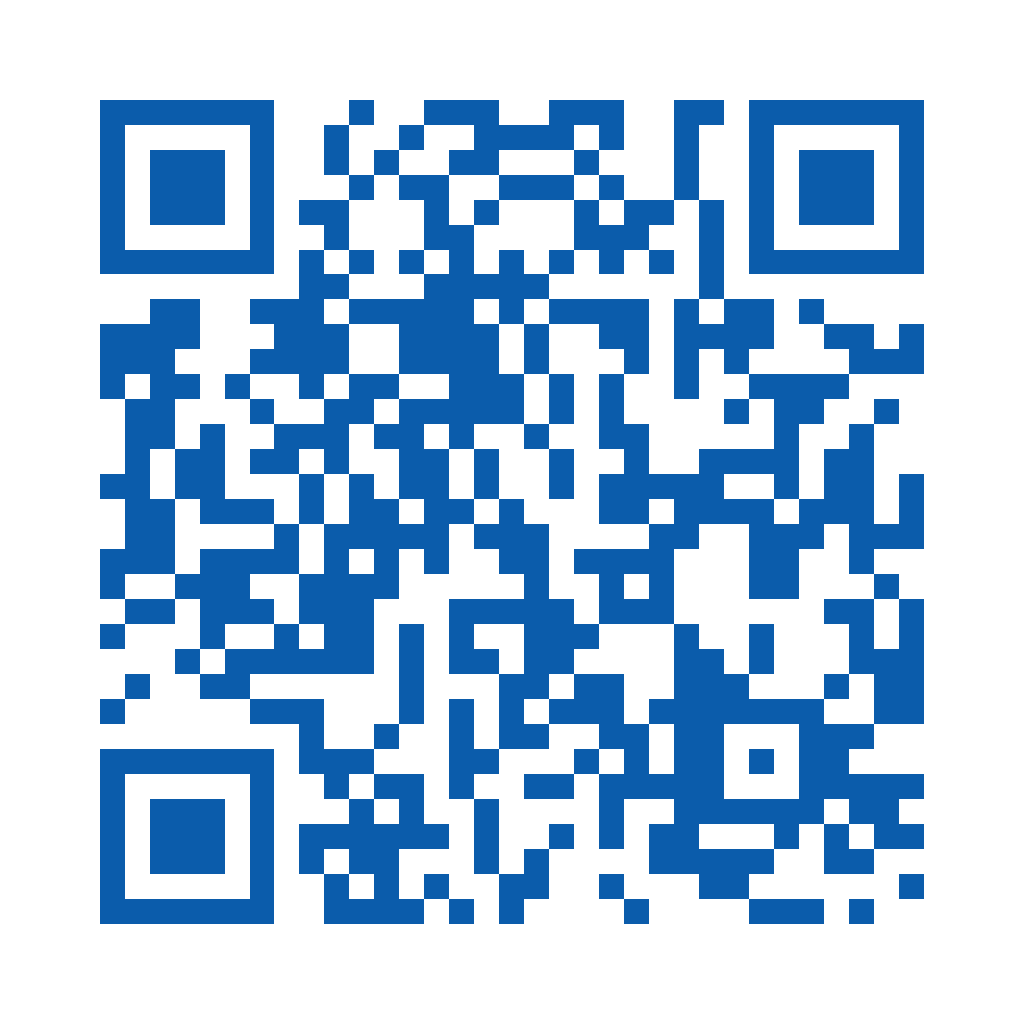
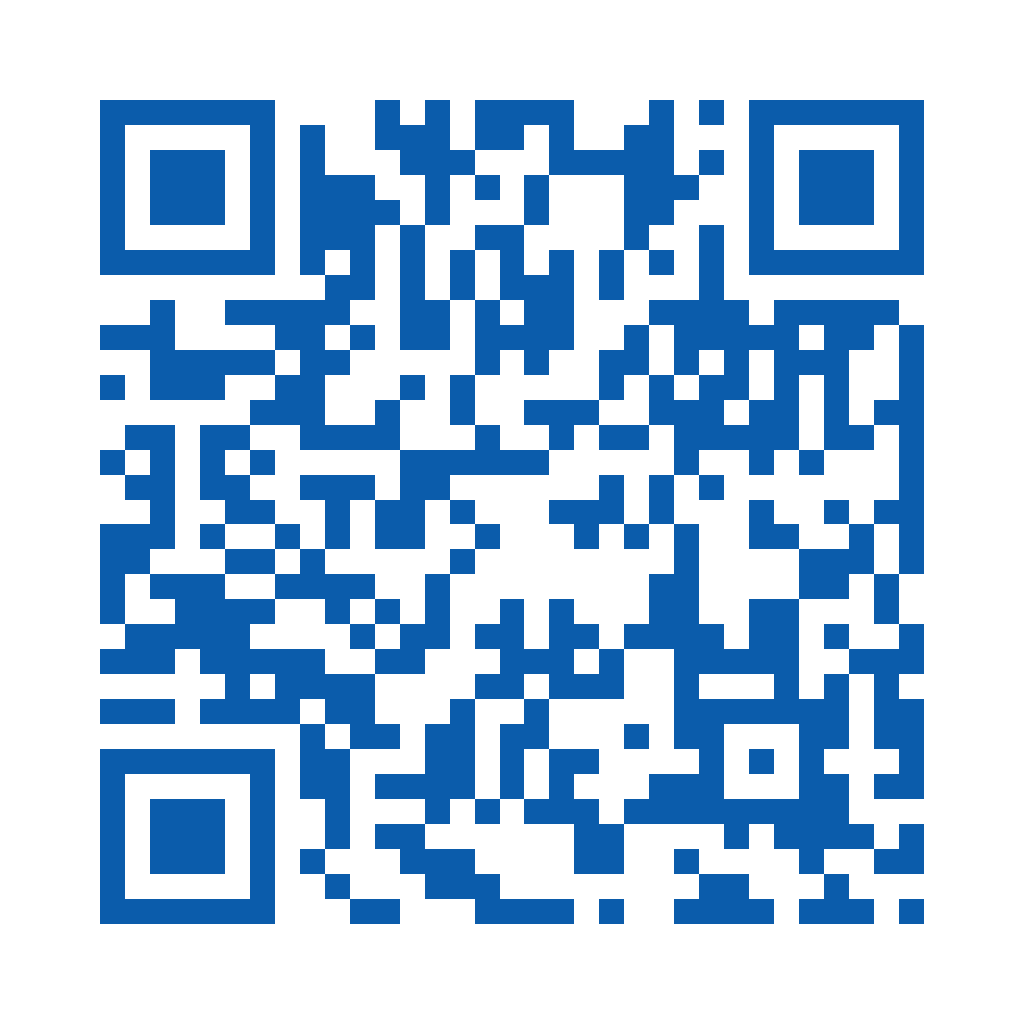
Update site URL and QR for ReFIT-No1/Album

Changed region(s): [[0.0938, 0.0938, 0.9062, 0.9062], [0.3125, 0.875, 0.3438, 0.9062]]

diff --git a/index.html b/index.html
@@ -14,7 +14,7 @@
   </script>
   <link rel="preload" as="image" href="assets/brand/chaser-logo.webp" fetchpriority="high">
   <link rel="preload" as="image" href="assets/pages/001.webp" fetchpriority="high">
-  <link rel="stylesheet" href="styles.css?v=20261111i">
+  <link rel="stylesheet" href="styles.css?v=20261111j">
 </head>
 <body class="is-intro">
   <div class="app is-intro" id="app">
@@ -279,7 +279,7 @@
         <p class="share-title">扫码查看整本图册</p>
         <p class="share-sub">微信、手机相机或浏览器扫码</p>
         <div class="share-url-row">
-          <input id="shareUrl" type="text" readonly value="https://echoo395.github.io/echoos/" aria-label="图册网址">
+          <input id="shareUrl" type="text" readonly value="https://refit-no1.github.io/Album/" aria-label="图册网址">
           <button id="copyShare" type="button">复制</button>
         </div>
         <div class="share-actions">
@@ -400,8 +400,8 @@
     <div class="noscript">请启用浏览器 JavaScript 后重新打开本图册。</div>
   </noscript>
 
-  <script src="data/pages.js?v=20261111i"></script>
-  <script src="data/toc.js?v=20261111i"></script>
-  <script src="app.js?v=20261111i"></script>
+  <script src="data/pages.js?v=20261111j"></script>
+  <script src="data/toc.js?v=20261111j"></script>
+  <script src="app.js?v=20261111j"></script>
 </body>
 </html>

diff --git a/app.js b/app.js
@@ -1,4 +1,4 @@
-/* =========================================================
+/* =========================================================
    千寻电气 · 产品图册
    Custom two-page / single-page flipbook
    No framework, no network dependency
@@ -187,7 +187,7 @@
   let modalLastFocus = null;
   let searchItems = [];
   let searchActive = -1;
-  const PUBLIC_URL = 'https://echoo395.github.io/echoos/';
+  const PUBLIC_URL = 'https://refit-no1.github.io/Album/';
   const SHARE_QR = 'assets/brand/share-qr.png';
   const CONTACT_INFO = {
     address: {
